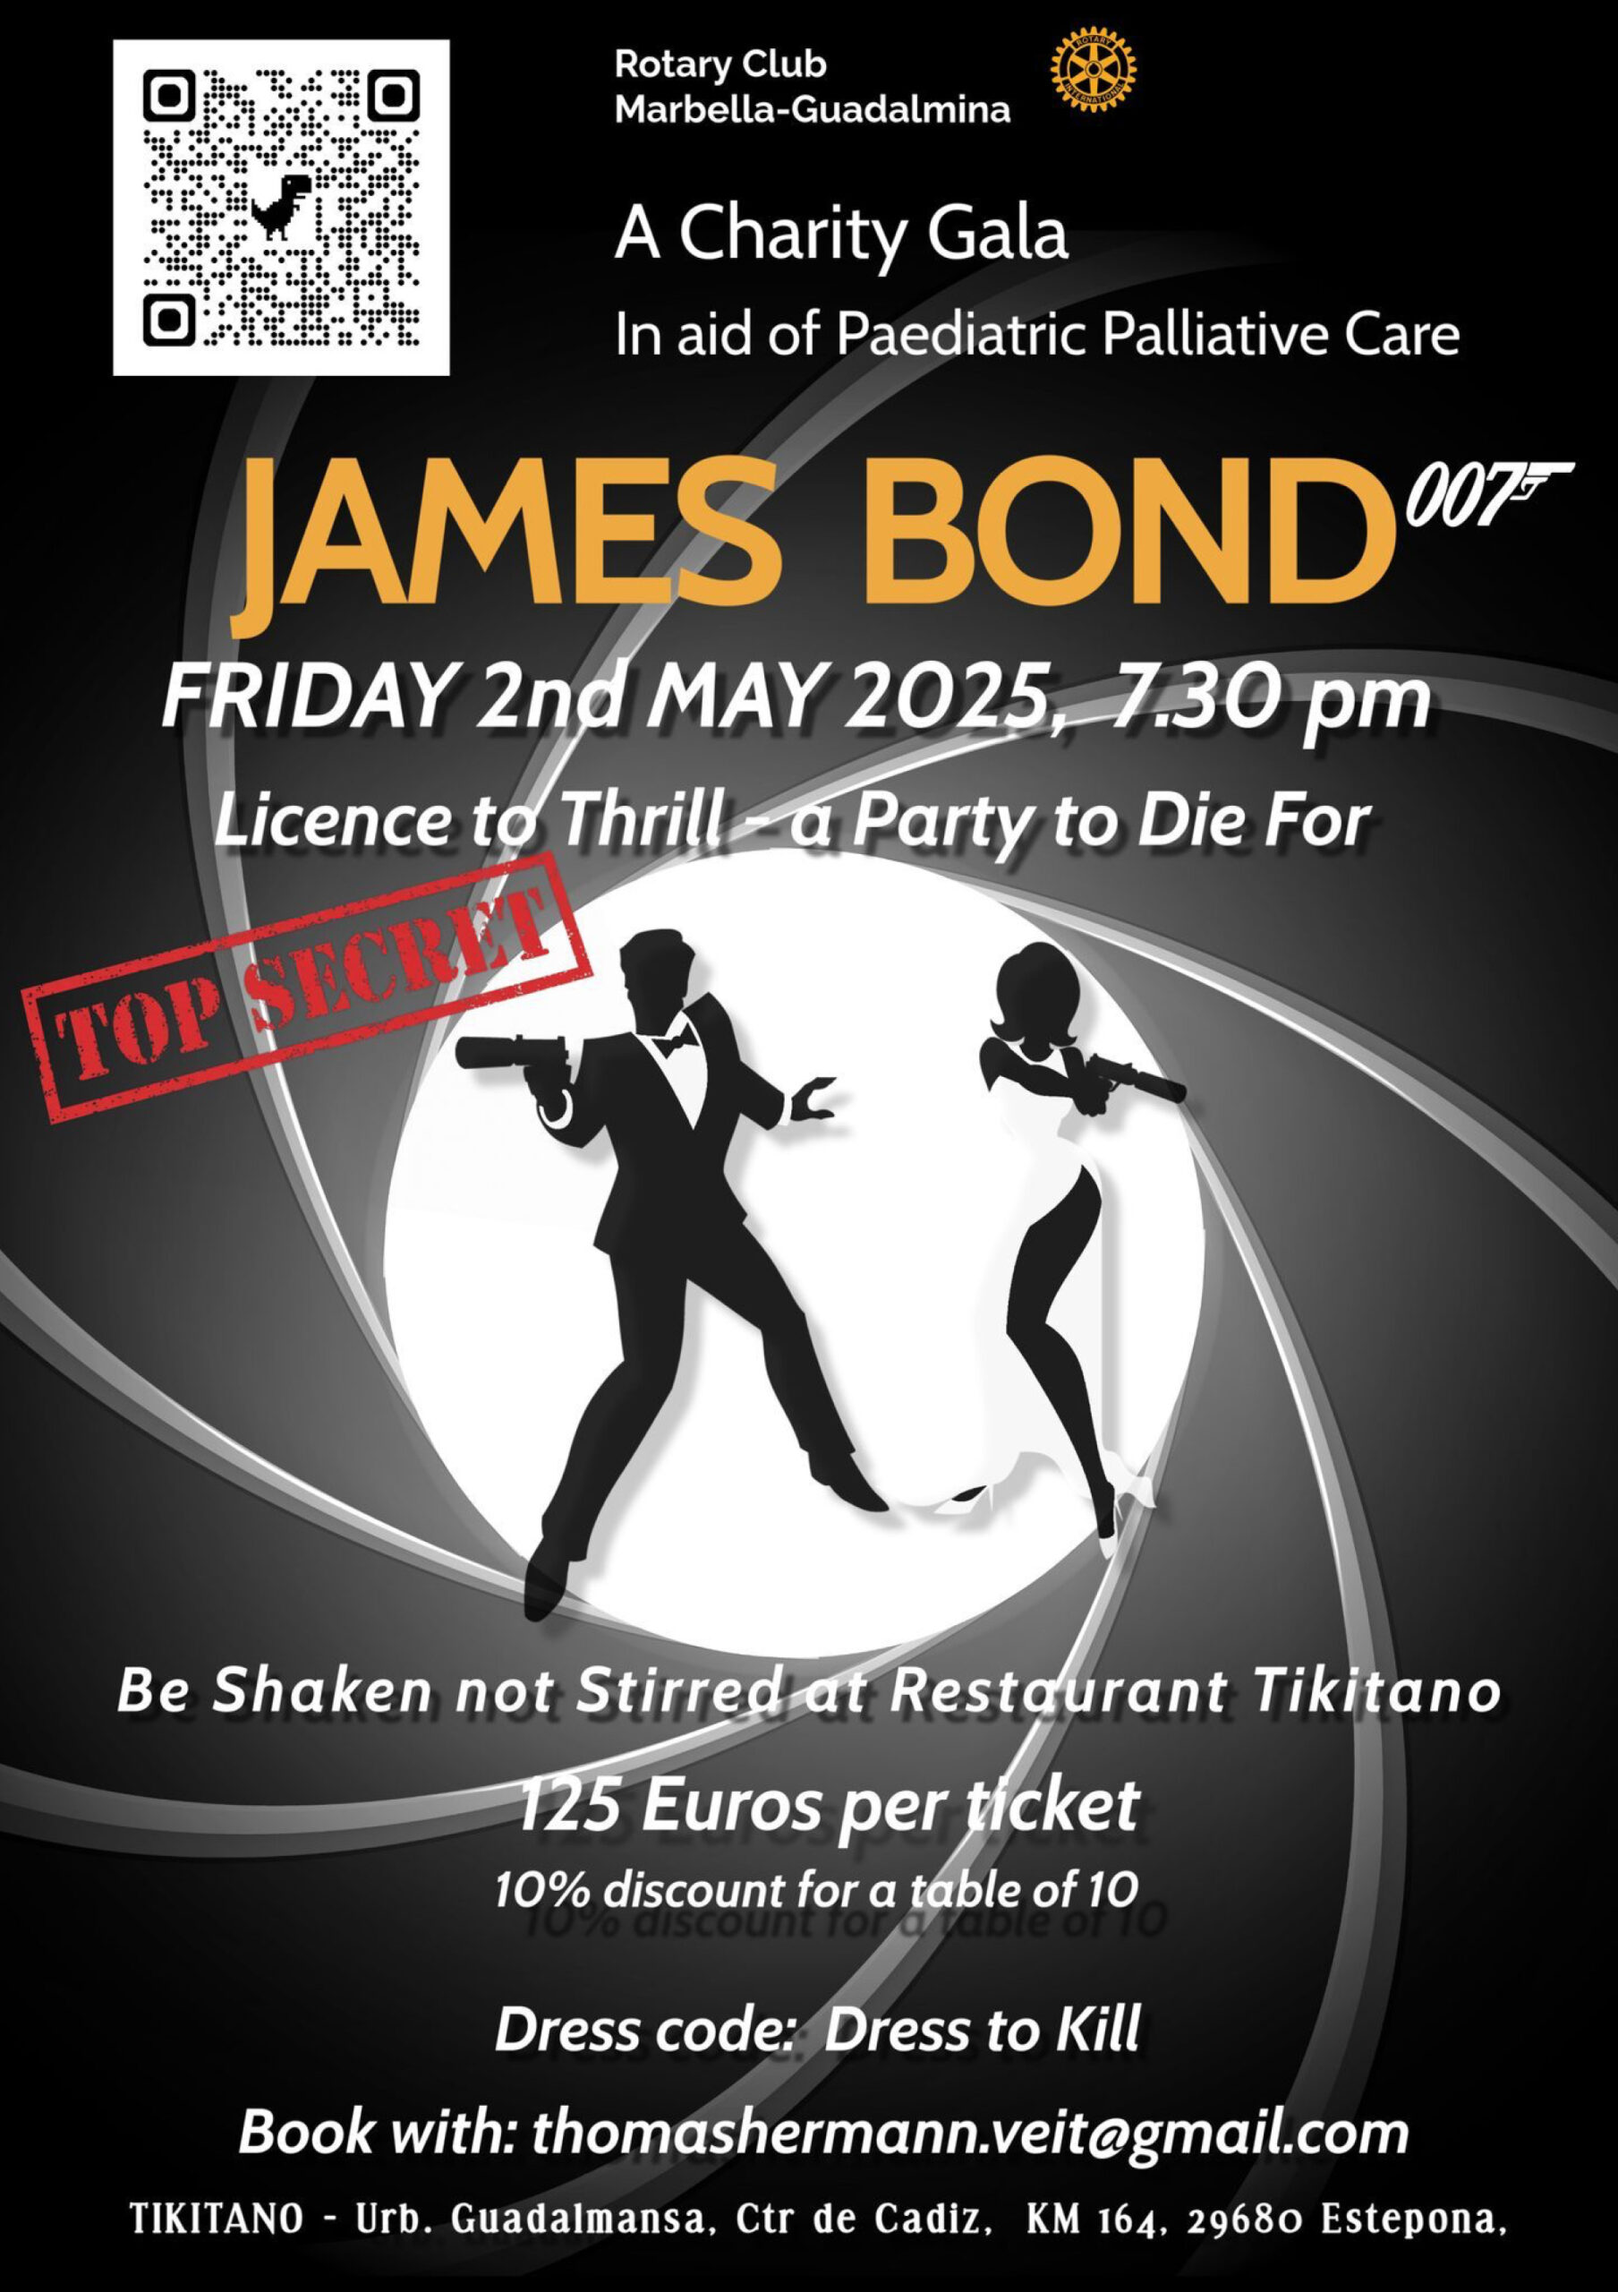
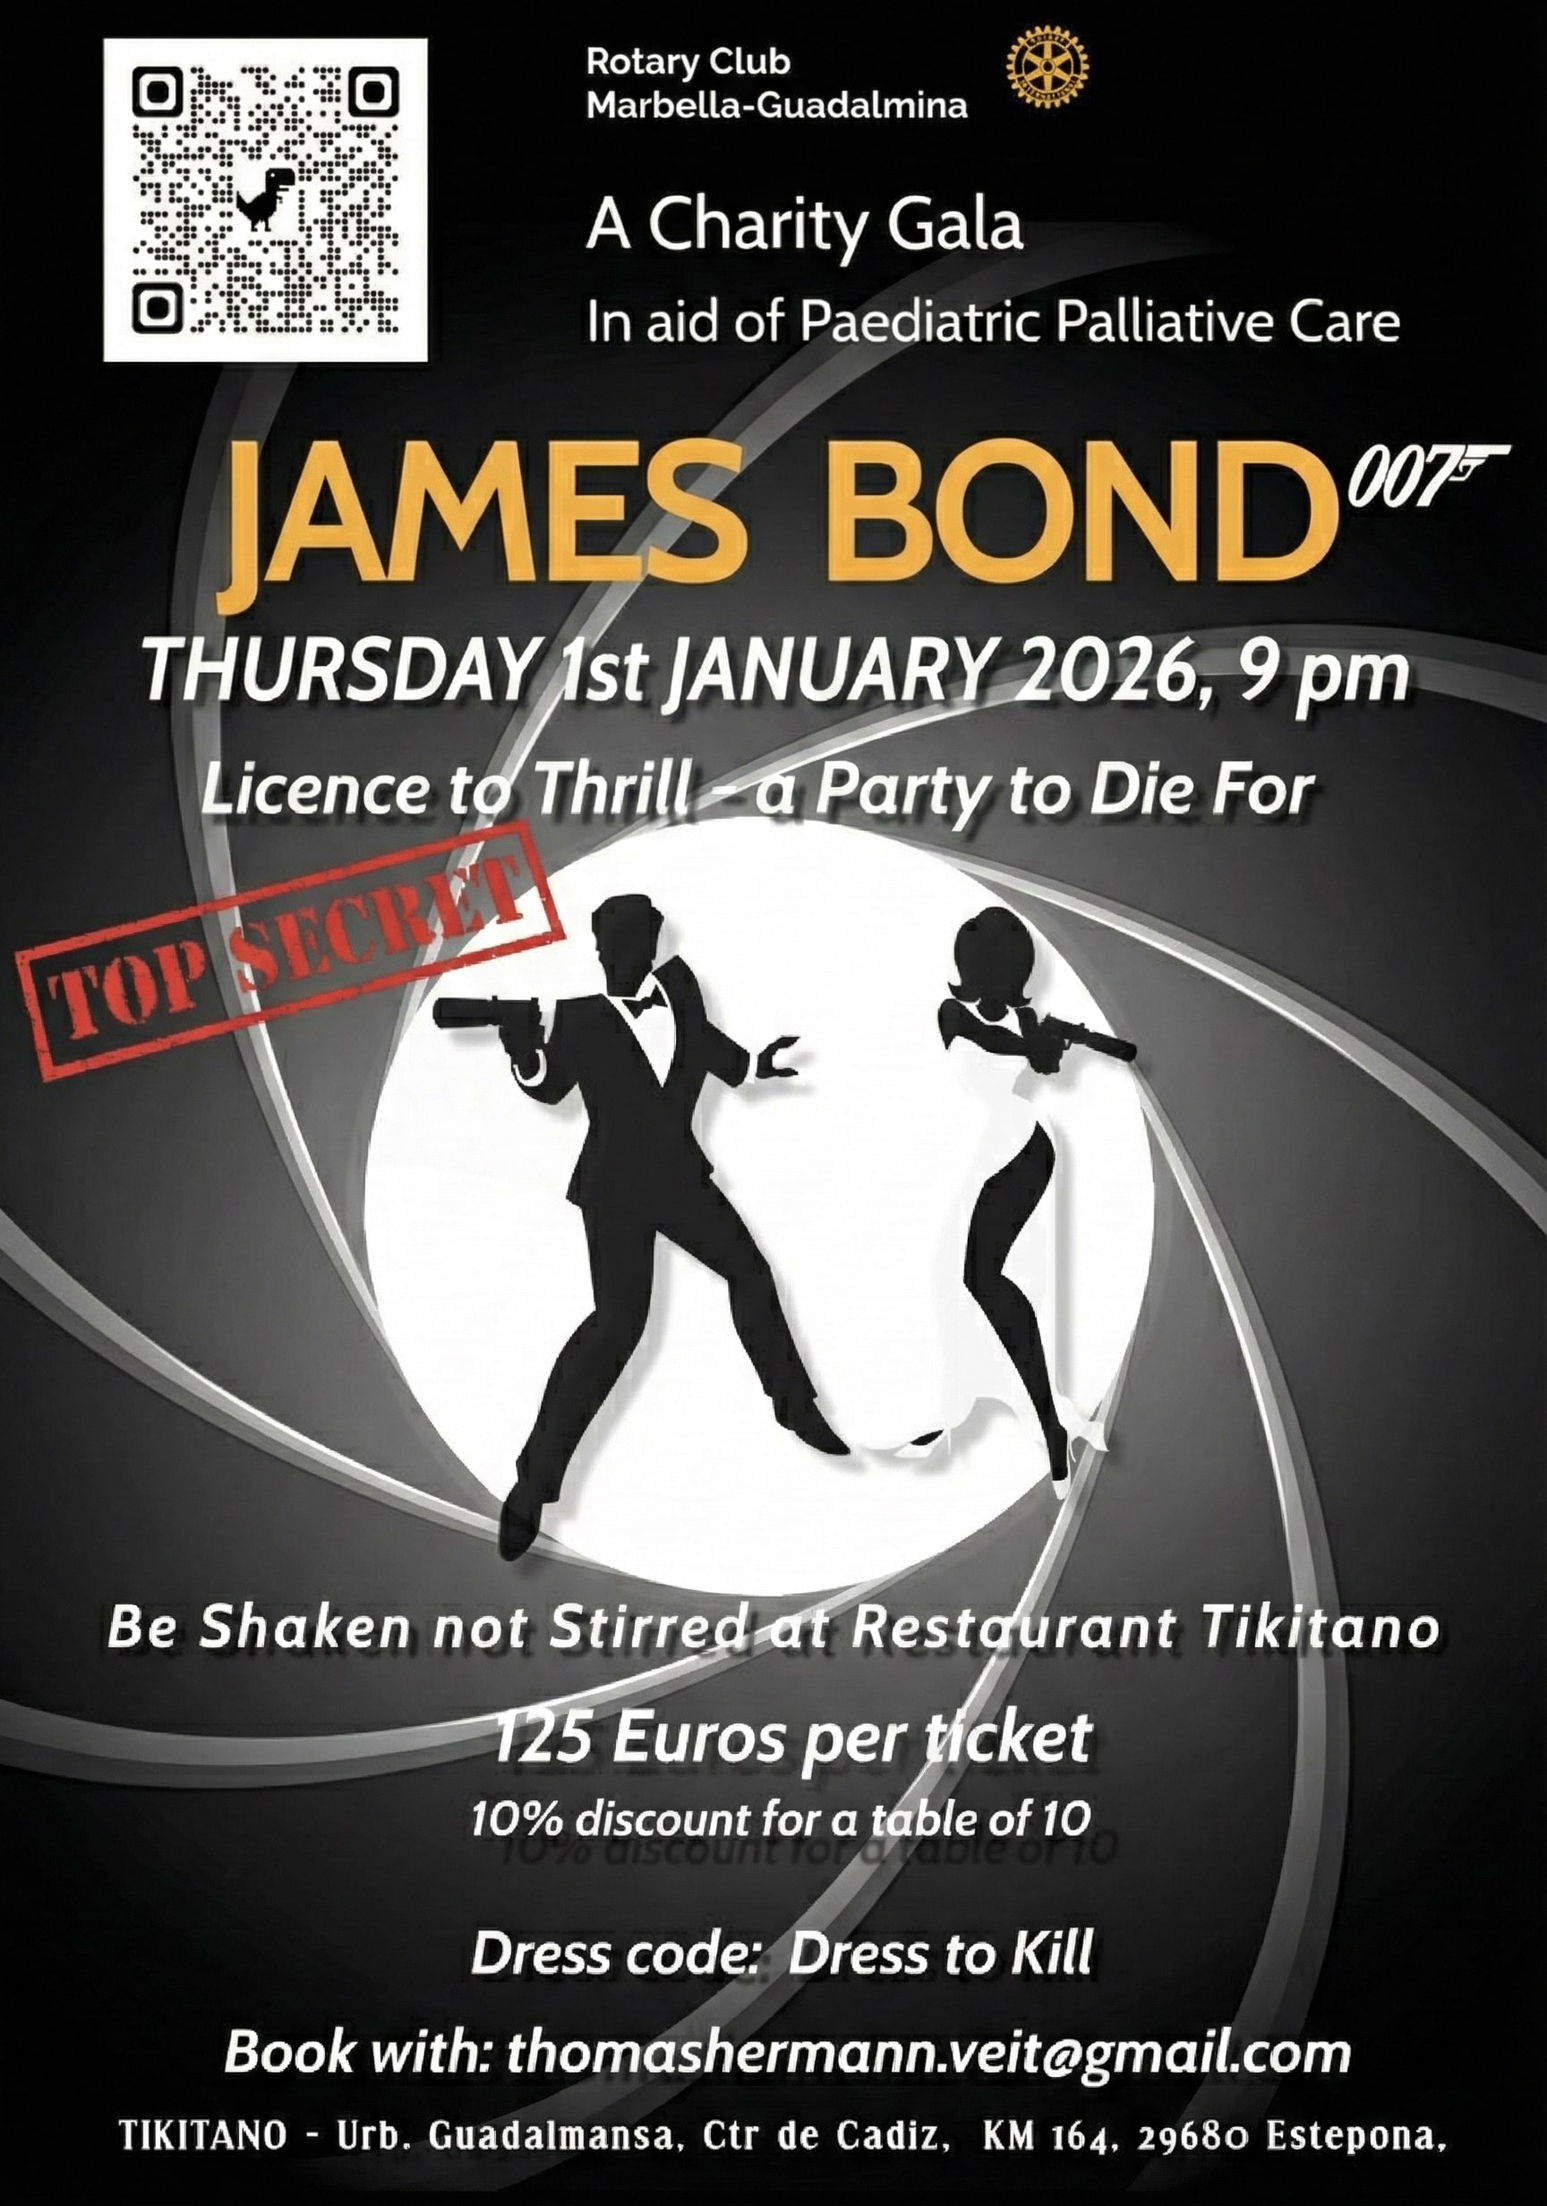
actualizado evento por defecto

diff --git a/SRC/baseDatos/templates/contacto.html b/SRC/baseDatos/templates/contacto.html
@@ -4,20 +4,30 @@
 <h2>Información de contacto:</h2>
 <div class="contact-info" style="border-left: 5px solid var(--primary-green); padding-left: 20px;">
     <h3>Números de teléfono:</h3>
-    <p><strong>Número principal:</strong> +34 952 564 910</p>
+    <p><strong>Número principal:</strong> <a href="tel:+34952564910" style="color: inherit; text-decoration: none;">+34 952 564 910</a></p>
     
     <h3>Correos:</h3>
-    <p>Correo principal: cudeca@cudeca.org<br>
-       Socios: socios@cudeca.org<br>
-       Eventos: eventos@cudeca.org</p>
+    <p>
+        Correo principal: <a href="mailto:cudeca@cudeca.org">cudeca@cudeca.org</a><br>
+        Socios: <a href="mailto:socios@cudeca.org">socios@cudeca.org</a><br>
+        Eventos: <a href="mailto:eventos@cudeca.org">eventos@cudeca.org</a>
+    </p>
        
     <h3>Direcciones físicas:</h3>
-    <p>Centro de cuidados paliativos: Avenida del Cosmos, s/n - Málaga</p>
+    <p>Centro de cuidados paliativos: <a href="https://www.google.com/maps/search/?api=1&query=Avenida+del+Cosmos,+s/n+-+Málaga" target="_blank">Avenida del Cosmos, s/n - Málaga</a></p>
     
     <h3>Redes sociales:</h3>
     <ul>
-        <li>instagram.com/voluntariadocudeca</li>
-        <li>facebook.com/voluntarioscudeca</li>
+        <li>
+            <a href="https://www.instagram.com/voluntariadocudeca" target="_blank">
+                instagram.com/voluntariadocudeca
+            </a>
+        </li>
+        <li>
+            <a href="https://www.facebook.com/voluntarioscudeca" target="_blank">
+                facebook.com/voluntarioscudeca
+            </a>
+        </li>
     </ul>
 </div>
 {% endblock %}

diff --git a/SRC/baseDatos/app.py b/SRC/baseDatos/app.py
@@ -616,15 +616,16 @@ if __name__ == '__main__':
     with app.app_context():
         db.create_all()
         
-        # --- DATOS DE PRUEBA (SOLO PARA VER QUE FUNCIONA) ---
         if not Evento.query.first():
             evento_demo = Evento(
                 nombre_evento="Gala Benéfica James Bond",
                 localizacion="Rotary Club Marbella",
-                fecha=None, # Pon un datetime real aquí
-                informacion="Una velada inolvidable..."
+                fecha=datetime(2026, 1, 1, 21, 0), 
+                informacion="Una velada inolvidable...",
+                precio=20.0 
             )
             db.session.add(evento_demo)
             db.session.commit()
+            print("✅ Evento de prueba creado: Gala James Bond (01/01/2026 - 20€)")
             
     app.run(debug=True)
